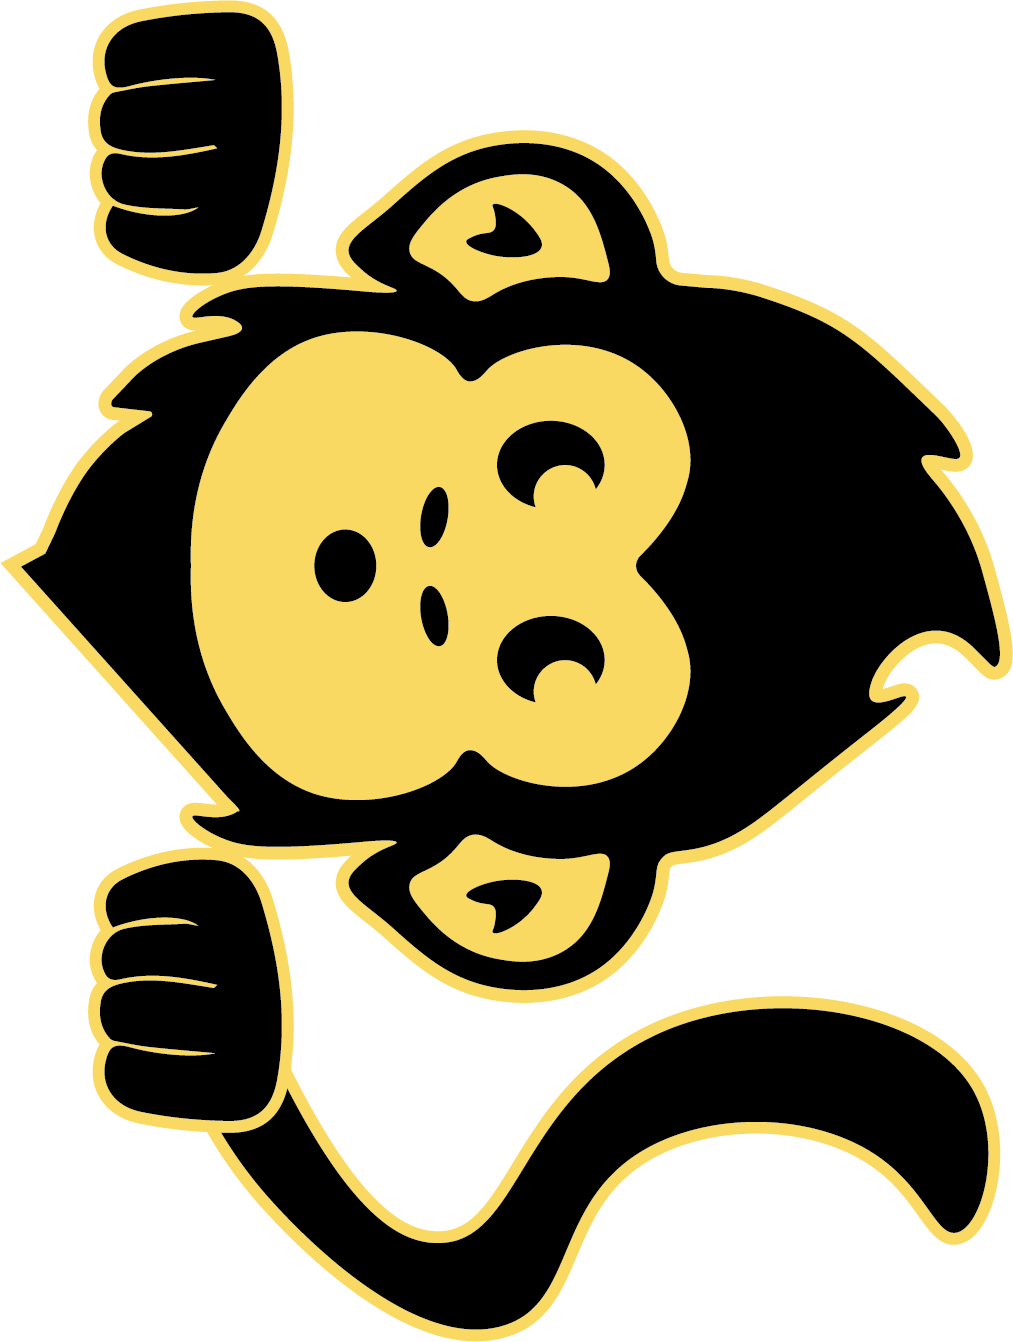
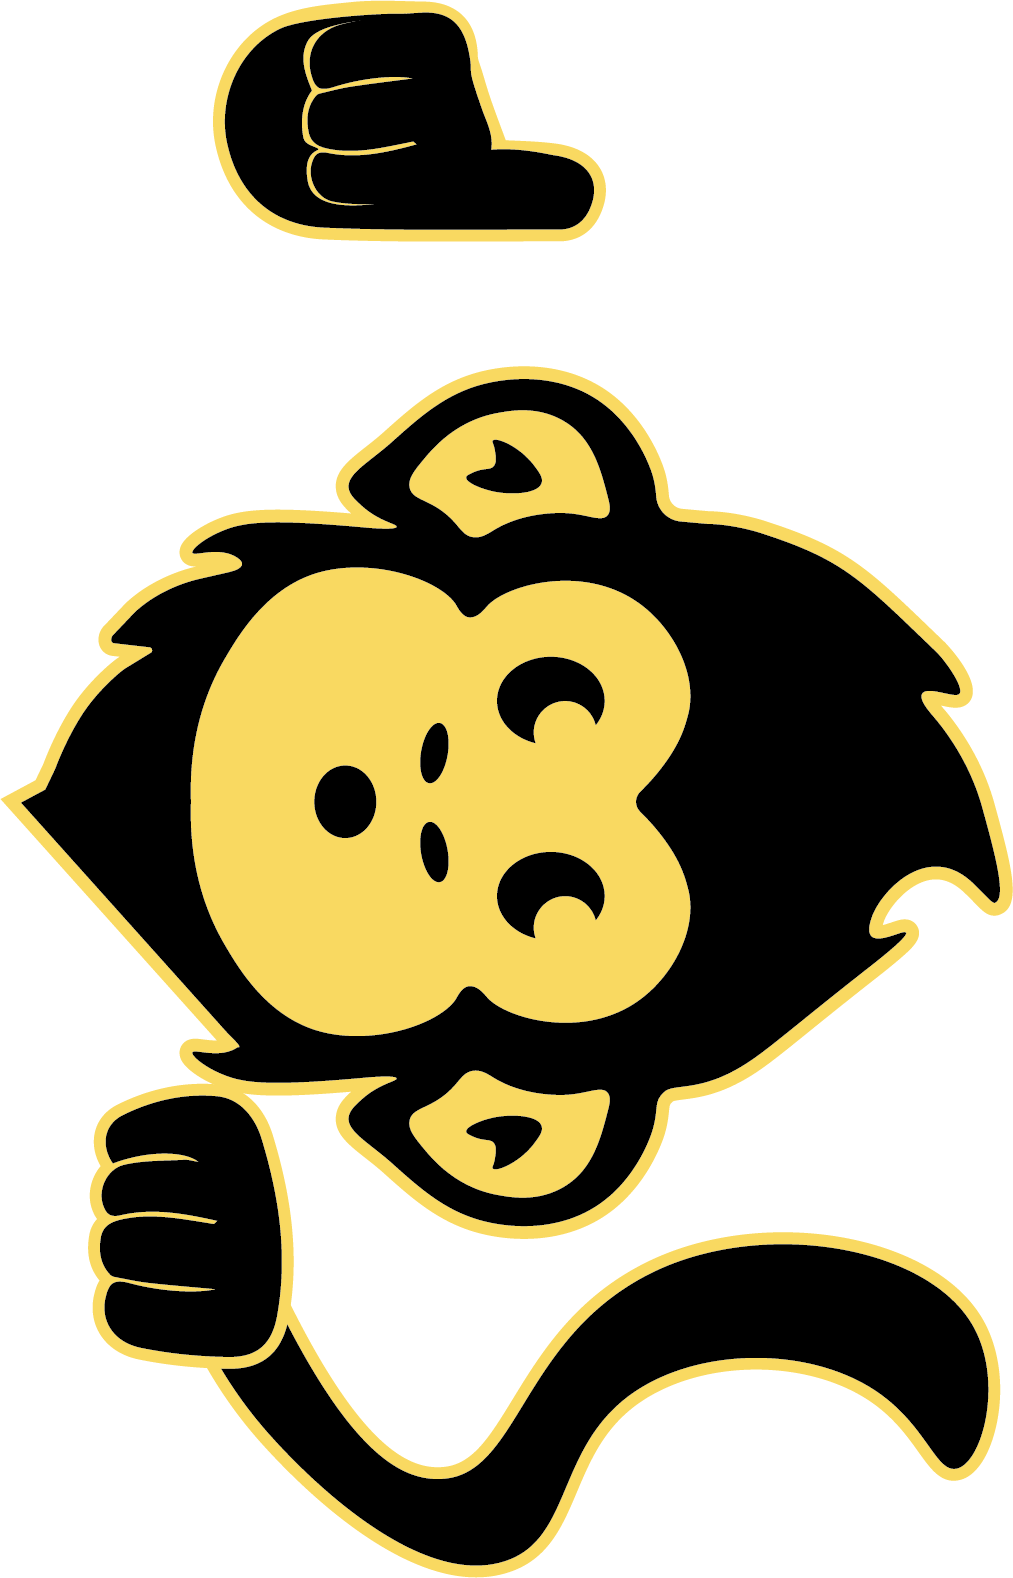
styles

diff --git a/client/components/infoHome/InfoHome.module.css b/client/components/infoHome/InfoHome.module.css
@@ -1,5 +1,6 @@
+
 .infoContainerRest {
-    background-color: #FFDA61;
+    background-image: linear-gradient(231deg, rgba(233, 233, 233, 0.01) 0%, rgba(233, 233, 233, 0.01) 25%, rgba(10, 10, 10, 0.01) 25%, rgba(10, 10, 10, 0.01) 50%, rgba(237, 237, 237, 0.01) 50%, rgba(237, 237, 237, 0.01) 75%, rgba(200, 200, 200, 0.01) 75%, rgba(200, 200, 200, 0.01) 100%), linear-gradient(344deg, rgba(2, 2, 2, 0.03) 0%, rgba(2, 2, 2, 0.03) 20%, rgba(10, 10, 10, 0.03) 20%, rgba(10, 10, 10, 0.03) 40%, rgba(100, 100, 100, 0.03) 40%, rgba(100, 100, 100, 0.03) 60%, rgba(60, 60, 60, 0.03) 60%, rgba(60, 60, 60, 0.03) 80%, rgba(135, 135, 135, 0.03) 80%, rgba(135, 135, 135, 0.03) 100%), linear-gradient(148deg, rgba(150, 150, 150, 0.03) 0%, rgba(150, 150, 150, 0.03) 14.286%, rgba(15, 15, 15, 0.03) 14.286%, rgba(15, 15, 15, 0.03) 28.572%, rgba(74, 74, 74, 0.03) 28.572%, rgba(74, 74, 74, 0.03) 42.858%, rgba(175, 175, 175, 0.03) 42.858%, rgba(175, 175, 175, 0.03) 57.144%, rgba(16, 16, 16, 0.03) 57.144%, rgba(16, 16, 16, 0.03) 71.42999999999999%, rgba(83, 83, 83, 0.03) 71.43%, rgba(83, 83, 83, 0.03) 85.71600000000001%, rgba(249, 249, 249, 0.03) 85.716%, rgba(249, 249, 249, 0.03) 100.002%), linear-gradient(122deg, rgba(150, 150, 150, 0.01) 0%, rgba(150, 150, 150, 0.01) 20%, rgba(252, 252, 252, 0.01) 20%, rgba(252, 252, 252, 0.01) 40%, rgba(226, 226, 226, 0.01) 40%, rgba(226, 226, 226, 0.01) 60%, rgba(49, 49, 49, 0.01) 60%, rgba(49, 49, 49, 0.01) 80%, rgba(94, 94, 94, 0.01) 80%, rgba(94, 94, 94, 0.01) 100%), linear-gradient(295deg, rgba(207, 207, 207, 0.02) 0%, rgba(207, 207, 207, 0.02) 25%, rgba(47, 47, 47, 0.02) 25%, rgba(47, 47, 47, 0.02) 50%, rgba(142, 142, 142, 0.02) 50%, rgba(142, 142, 142, 0.02) 75%, rgba(76, 76, 76, 0.02) 75%, rgba(76, 76, 76, 0.02) 100%), linear-gradient(73deg, rgba(81, 81, 81, 0.03) 0%, rgba(81, 81, 81, 0.03) 12.5%, rgba(158, 158, 158, 0.03) 12.5%, rgba(158, 158, 158, 0.03) 25%, rgba(136, 136, 136, 0.03) 25%, rgba(136, 136, 136, 0.03) 37.5%, rgba(209, 209, 209, 0.03) 37.5%, rgba(209, 209, 209, 0.03) 50%, rgba(152, 152, 152, 0.03) 50%, rgba(152, 152, 152, 0.03) 62.5%, rgba(97, 97, 97, 0.03) 62.5%, rgba(97, 97, 97, 0.03) 75%, rgba(167, 167, 167, 0.03) 75%, rgba(167, 167, 167, 0.03) 87.5%, rgba(22, 22, 22, 0.03) 87.5%, rgba(22, 22, 22, 0.03) 100%), linear-gradient(90deg, rgb(255, 218, 97), rgb(255, 218, 97));
     width: 100%;
     display: flex;
     flex-direction: column;
@@ -40,6 +41,7 @@
     flex-direction: column;
     align-items: center;
     padding-bottom: 30px;
+    background-image: radial-gradient(circle at center center, transparent,rgb(0,0,0)),repeating-linear-gradient(135deg, rgb(0,0,0) 0px, rgb(0,0,0) 2px,transparent 2px, transparent 10px,rgb(0,0,0) 10px, rgb(0,0,0) 11px,transparent 11px, transparent 21px),repeating-linear-gradient(45deg, rgb(46,40,40) 0px, rgb(46,40,40) 4px,transparent 4px, transparent 8px),linear-gradient(90deg, rgb(0,0,0),rgb(0,0,0));
 }
 
 .titleContainerPool {
@@ -50,7 +52,7 @@
     color: white;
     width: 80%;
     margin-top: 50px;
-      
+
 }
 
 .titleContainerPool h1 span {
@@ -64,13 +66,14 @@
 }
 
 
- /* RESPONSIVE */
+/* RESPONSIVE */
 
-   /* Mobile hasta smartphone grande */
+/* Mobile hasta smartphone grande */
 @media (max-width: 720px) {
     .pContainerPool {
         width: 70%;
     }
+
     .pContainer {
         width: 70%;
     }
@@ -88,15 +91,17 @@
         column-gap: 30px;
         width: 70%;
     }
+
     .pContainerPool {
         columns: 2;
         column-gap: 30px;
         width: 70%;
     }
+
     .carousel {
         border-radius: 10px;
     }
-   
+
 }
 
 /* Ordenador portátil medio hasta ordenador de escritorio medio */
@@ -112,6 +117,7 @@
         column-gap: 30px;
         width: 70%;
     }
+
     .pContainerPool {
         columns: 2;
         column-gap: 30px;
@@ -121,7 +127,7 @@
 
 /* PC de escritorio medio y pantallas más grandes */
 @media (min-width: 1441px) {
- 
+
     .carousel {
         width: 70%;
         border-radius: 10px;
@@ -132,10 +138,10 @@
         column-gap: 30px;
         width: 70%;
     }
+
     .pContainerPool {
         columns: 2;
         column-gap: 30px;
         width: 70%;
     }
 }
-

diff --git a/client/components/publicity/Publicity.module.css b/client/components/publicity/Publicity.module.css
@@ -1,0 +1,89 @@
+.publicityContainer {
+    display: flex;
+    background-image: radial-gradient(circle at center center, transparent,rgb(0,0,0)),repeating-linear-gradient(135deg, rgb(0,0,0) 0px, rgb(0,0,0) 2px,transparent 2px, transparent 10px,rgb(0,0,0) 10px, rgb(0,0,0) 11px,transparent 11px, transparent 21px),repeating-linear-gradient(45deg, rgb(46,40,40) 0px, rgb(46,40,40) 4px,transparent 4px, transparent 8px),linear-gradient(90deg, rgb(0,0,0),rgb(0,0,0));
+    width: 100%;
+    padding: 50px;
+    align-items: center;
+    justify-content: space-around;
+    height: 100vh;
+}
+
+.logo {
+    width: 400px;
+}
+
+.separator {
+    border-left: #FFDA61 solid 3px;
+    height: 20rem;
+}
+
+.textContainer {
+    margin-bottom: 50px;
+    font-size: 2.5rem;
+    font-weight: bold;
+    text-align: center;
+    color: white;
+    width: 40%;
+    margin-top: 50px;
+}
+
+.textContainer h1 span {
+    color: #FFDA61;
+    padding: 10px;
+    border-radius: 10px;
+}
+
+.reserve {
+    color: rgb(70, 210, 80);
+    padding: 10px;
+    border-radius: 10px;    
+    transition: all 0.2s ease;
+}
+
+.reserve:hover {
+    text-decoration: underline;
+}
+
+.logoContainer {
+    width: 40%;
+}
+
+/* RESPONSIVE */
+/* Estilos para pantallas con ancho máximo de 576px (por ejemplo, smartphones en orientación vertical) */
+@media (max-width: 576px) {
+    .publicityContainer {
+        width: 100%;
+        padding:10px;
+        align-items: center;
+        justify-content: space-around;
+        height: 100vh;
+        flex-direction: column-reverse;
+    }
+    .textContainer {
+        font-size: 2rem;
+        width: 100%;
+        margin-top: 0;
+        margin-bottom: 0;
+    }
+    .separator {
+        border-bottom: #FFDA61 solid 3px;
+        height: 0px;
+        width: 20rem;
+    }
+    .logoContainer {
+        width: 75%;
+    }
+}
+
+/* Estilos para pantallas con ancho entre 577px y 991px (por ejemplo, tabletas en orientación vertical) */
+@media (min-width: 577px) and (max-width: 991px) {
+
+}
+
+/* Estilos para pantallas con ancho mínimo de 992px (por ejemplo, laptops y pantallas de escritorio) */
+@media (min-width: 992px) {}
+
+/* Estilos para pantallas con ancho mínimo de 1200px (por ejemplo, pantallas de escritorio grandes) */
+@media (min-width: 1200px) {
+  
+}

diff --git a/client/components/cards/Cards.module.css b/client/components/cards/Cards.module.css
@@ -4,7 +4,7 @@
     justify-content: center;
     align-items: center;
     width: 100%;
-}
+    background-image: radial-gradient(circle at center center, transparent,rgb(0,0,0)),repeating-linear-gradient(135deg, rgb(0,0,0) 0px, rgb(0,0,0) 2px,transparent 2px, transparent 10px,rgb(0,0,0) 10px, rgb(0,0,0) 11px,transparent 11px, transparent 21px),repeating-linear-gradient(45deg, rgb(46,40,40) 0px, rgb(46,40,40) 4px,transparent 4px, transparent 8px),linear-gradient(90deg, rgb(0,0,0),rgb(0,0,0));}
 
 .cardsContainer {
     display: flex;
@@ -22,7 +22,7 @@
     text-align: center;
     color: white;
     width: 70%;
-    margin-top: 50px;
+    margin-top: 190px;
 }
 
 .titleContainer h1 span {
@@ -42,4 +42,40 @@
 
 .titleBackround h1 {
     margin-top: -8px;
+}
+
+.monkey {
+    width: 249px;
+    position: absolute;
+    left: -62px;
+}
+
+/* RESPONSIVE */
+/* Estilos para pantallas con ancho máximo de 576px (por ejemplo, smartphones en orientación vertical) */
+@media (max-width: 576px) {
+    .monkey {
+        width: 150px;
+    transform: rotate(90deg) translateY(-55%);
+    left: 0px;
+    top: -25px;
+    }
+}
+
+/* Estilos para pantallas con ancho entre 577px y 991px (por ejemplo, tabletas en orientación vertical) */
+@media (min-width: 577px) and (max-width: 991px) {
+
+}
+
+/* Estilos para pantallas con ancho mínimo de 992px (por ejemplo, laptops y pantallas de escritorio) */
+@media (min-width: 992px) {
+    .titleContainer {
+        margin-top: 100px;
+    }
+}
+
+/* Estilos para pantallas con ancho mínimo de 1200px (por ejemplo, pantallas de escritorio grandes) */
+@media (min-width: 1200px) {
+    .titleContainer {
+        margin-top: 100px;
+    }
 }

diff --git a/client/components/publicity/Publicity.jsx b/client/components/publicity/Publicity.jsx
@@ -1,0 +1,30 @@
+"use client";
+import React from "react";
+import style from "./Publicity.module.css";
+import Link from "next/link";
+import Image from "next/image";
+import logo from "../../assets/images/logopu.png";
+
+const Publicity = () => {
+  return (
+    <div className={style.publicityContainer}>
+      <div className={style.textContainer}>
+        <h1>
+          Welcome to<span>MIGHTY MONKEY CLUB.</span>
+        </h1>
+        <h3>
+          Let's take a
+          <Link className={style.reserve} href={"/sports"}>
+            <span >reservation now!</span>
+          </Link>
+        </h3>
+      </div>
+      <div className={style.separator}></div>
+      <div className={style.logoContainer}>
+        <Image className={style.logo} src={logo} alt="#" />
+      </div>
+    </div>
+  );
+};
+
+export default Publicity;

diff --git a/client/components/cards/Cards.jsx b/client/components/cards/Cards.jsx
@@ -5,6 +5,8 @@ import styles from "./Cards.module.css";
 import { getSports } from "../../redux/actions/sportsActions";
 import { useDispatch, useSelector } from "react-redux";
 import { useEffect } from "react";
+import Image from "next/image";
+import monkey from '../../assets/images/monover.png'
 
 const Cards = () => {
   const dispatch = useDispatch();
@@ -16,9 +18,10 @@ const Cards = () => {
 
   return (
     <section className={styles.cardSection}>
+      <Image className={styles.monkey} src={monkey} alt="monkey" />
       <div className={styles.titleContainer}>
         <h1>
-          Take a look at our<span> SPORTS </span>!
+          Take a look at our<span> SPORTS </span>, and make a <span>RESERVATION!</span>
         </h1>
       </div>
       <div className={styles.cardsContainer}>

diff --git a/client/app/profile/page.module.css b/client/app/profile/page.module.css
@@ -3,12 +3,14 @@
     display: flex;
     flex-direction: column;
     align-items: center;
+    background-image: radial-gradient(circle at center center, transparent,rgb(0,0,0)),repeating-linear-gradient(135deg, rgb(0,0,0) 0px, rgb(0,0,0) 2px,transparent 2px, transparent 10px,rgb(0,0,0) 10px, rgb(0,0,0) 11px,transparent 11px, transparent 21px),repeating-linear-gradient(45deg, rgb(46,40,40) 0px, rgb(46,40,40) 4px,transparent 4px, transparent 8px),linear-gradient(90deg, rgb(0,0,0),rgb(0,0,0));
 }
 
 .profileContainer{
     width: 80%;
     /* border: 1px solid red; */
     margin: auto;
+    
 }
 
 .container >h1{

diff --git a/client/app/aboutUs/page.module.css b/client/app/aboutUs/page.module.css
@@ -10,6 +10,7 @@
     justify-content: center;
     flex-direction: column;
     align-items: center;
+    background-image: radial-gradient(circle at center center, transparent,rgb(0,0,0)),repeating-linear-gradient(135deg, rgb(0,0,0) 0px, rgb(0,0,0) 2px,transparent 2px, transparent 10px,rgb(0,0,0) 10px, rgb(0,0,0) 11px,transparent 11px, transparent 21px),repeating-linear-gradient(45deg, rgb(46,40,40) 0px, rgb(46,40,40) 4px,transparent 4px, transparent 8px),linear-gradient(90deg, rgb(0,0,0),rgb(0,0,0));
 }
 
 .imagesContainer {

diff --git a/client/app/contact/page.module.css b/client/app/contact/page.module.css
@@ -3,6 +3,7 @@
     display: flex;
     flex-direction: column;
     align-items: center;
+    background-image: radial-gradient(circle at center center, transparent,rgb(0,0,0)),repeating-linear-gradient(135deg, rgb(0,0,0) 0px, rgb(0,0,0) 2px,transparent 2px, transparent 10px,rgb(0,0,0) 10px, rgb(0,0,0) 11px,transparent 11px, transparent 21px),repeating-linear-gradient(45deg, rgb(46,40,40) 0px, rgb(46,40,40) 4px,transparent 4px, transparent 8px),linear-gradient(90deg, rgb(0,0,0),rgb(0,0,0));
 }
 
 .portada{

diff --git a/client/app/home/page.jsx b/client/app/home/page.jsx
@@ -2,13 +2,15 @@ import Cards from "../../components/cards/Cards";
 import styles from './page.module.css'
 import Banner from "../../components/banner/Banner";
 import InfoHome from "../../components/infoHome/InfoHome";
+import Publicity from "../../components/publicity/Publicity";
 
 
 export default async function Home() {
   return (
     <div className={styles.homeContainer}>
       <Banner />
-      <Cards />
+      <Publicity />
+      {/* <Cards /> */}
       <InfoHome />
     </div>
   )

diff --git a/client/app/join/page.module.css b/client/app/join/page.module.css
@@ -1,3 +1,4 @@
 .joinContainer {
     padding: 40px 0;
+    background-image: radial-gradient(circle at center center, transparent,rgb(0,0,0)),repeating-linear-gradient(135deg, rgb(0,0,0) 0px, rgb(0,0,0) 2px,transparent 2px, transparent 10px,rgb(0,0,0) 10px, rgb(0,0,0) 11px,transparent 11px, transparent 21px),repeating-linear-gradient(45deg, rgb(46,40,40) 0px, rgb(46,40,40) 4px,transparent 4px, transparent 8px),linear-gradient(90deg, rgb(0,0,0),rgb(0,0,0));
 }

diff --git a/client/components/navBar/Navbar.jsx b/client/components/navBar/Navbar.jsx
@@ -24,6 +24,7 @@ export const Navbar = () => {
 
   const obj = [
     { label: "Home", route: "/home" },
+    { label: "Sports", route: "/sports" },
     { label: "About", route: "/aboutUs" },
     { label: "Contact", route: "/contact" },
     ...(data?.isActive ? [{ label: "Profile", route: "/profile" }] : []),

diff --git a/client/components/infoHome/InfoHome.jsx b/client/components/infoHome/InfoHome.jsx
@@ -5,10 +5,10 @@ import Restaurant from "./restaurant/Restaurant";
 import Pool from "./pool/Pool";
 const InfoHome = () => {
   return (
-    <div className={style.infoContainer}>
+    <section className={style.infoContainer}>
       <Restaurant />
       <Pool />
-    </div>
+    </section>
   );
 };
 
